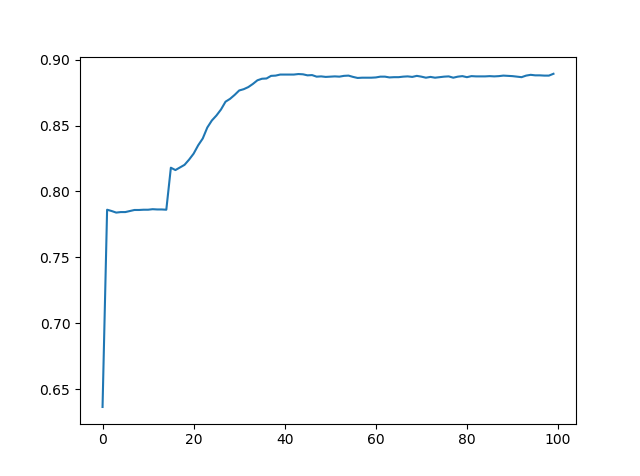
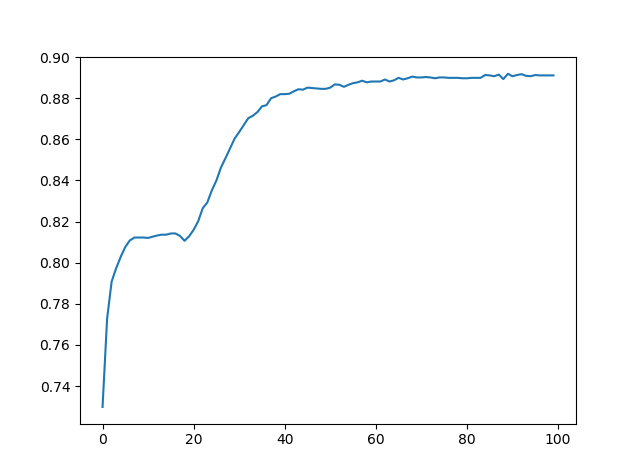
made the predictor that can take batches

diff --git a/training_model.py b/training_model.py
@@ -1,0 +1,51 @@
+from my_CNN import TextCNN
+from word_embeddings import embed_and_augment_data as em_aug
+from compiling_data import X_train, X_test, y_train, y_test
+import pandas as pd
+
+print(y_test.head, X_test.head)
+
+import numpy as np
+import tensorflow as tf
+
+dictionary = {"Company": 0, "Date": 1, "Location": 2, "Vessel": 3}
+num_classes=4
+learning_rate=0.001
+batch_size=5
+decay_steps=1000
+decay_rate=0.95
+sequence_length=40
+embed_size=100
+is_training=True
+dropout_keep_prob=1.0
+filter_sizes=[4,5,6]
+num_filters=128
+
+textRNN=TextCNN(filter_sizes,num_filters,num_classes, learning_rate, batch_size, decay_steps, decay_rate,sequence_length,embed_size,is_training)
+
+n_epochs = 1
+saver = tf.train.Saver()
+
+def train_and_save():
+    with tf.Session() as sess:
+        
+        sess.run(tf.global_variables_initializer())
+
+        for n in range(n_epochs):
+
+            for i in range(len(X_train) % batch_size):
+
+                input_x = np.stack(X_train.iloc[i*batch_size : batch_size*(i+1)].apply(em_aug).values)         # New augmentation every time
+                input_y = y_train.iloc[i*batch_size : batch_size*(i+1)].values
+                input_y = np.vectorize(dictionary.get)(input_y).reshape(-1)
+                loss,possibility,W_projection_value,_=sess.run([textRNN.loss_val,textRNN.possibility,textRNN.W_projection,textRNN.train_op],
+                                                        feed_dict={textRNN.X_in:input_x,textRNN.y_in:input_y,
+                                                                    textRNN.dropout_keep_prob:dropout_keep_prob,textRNN.tst:False,
+                                                                    textRNN.is_training_flag:is_training})
+
+
+            print("Epoch {} completed, loss = {}".format(n, loss))
+        
+        save_patch = saver.save(sess, "./vectorai_word_classifier.ckpt")
+
+train_and_save()

diff --git a/fastText_model/classifier.py b/fastText_model/classifier.py
@@ -1,0 +1,41 @@
+import tensorflow as tf
+import numpy as np
+from fastText import fastTextB
+import sys
+import os
+sys.path.insert(1, 'C:\\Users\\puria\\source\\repos\\puria-radmard\\vectorai\\')
+from word_embeddings import embed_and_augment_data as em_aug
+
+class fastTextPredictor:
+    def __init__(self):
+        
+        self.dictionary = {0 : "Company", 1: "Date", 2: "Location", 3: "Vessel"}
+        self.graph = tf.Graph()
+
+
+    def classify(self, entry):
+        "Takes entry as an iterable type, not DataFrame"
+
+        with self.graph.as_default():
+            with tf.Session() as sess:
+                self.metasaver = tf.train.import_meta_graph("fastText_model/vectorai_fastText_classifier.ckpt.meta")
+                self.metasaver.restore(sess, tf.train.latest_checkpoint(os.path.dirname("fastText_model/vectorai_fastText_classifier.ckpt.meta")))
+                log_op = self.graph.get_operation_by_name("logits")
+                
+                x_in = [em_aug(e) for e in entry]
+
+                pred_logs = sess.run(["logits:0"], feed_dict={"sentence:0": x_in})[0]
+            
+        
+        preds = np.argmax(pred_logs, axis = 1)
+        return preds
+
+from compiling_data import X_test, y_test
+
+dictionary = {"Company": 0, "Date": 1, "Location": 2, "Vessel": 3}
+
+preds = fastTextPredictor().classify(X_test)
+reals = [dictionary[a] for a in y_test["type"]]
+
+acc = np.mean(preds == reals)
+print(acc)

diff --git a/word_embeddings.py b/word_embeddings.py
@@ -53,8 +53,10 @@ def embed_and_augment_data(word, model = model, length = 40):   # Input has to b
 
     # Changes data randomly (using characters from the data) to both standardise string length, and increase sample size
     # This was taken from this article https://towardsdatascience.com/data-augmentation-in-nlp-2801a34dfc28
+    usable_char = ['0', '1', '2', '3', '4', '5', '6', '7', '8', '9', 'a', 'b', 'c', 'd', 'e', 'f', 'g', 'h', 'i', 'j', 'k', 'l', 'm', 'n', 'o', 'p', 'q', 'r', 's', 't', 'u', 'v', 'w',
+'x', 'y', 'z', 'A', 'B', 'C', 'D', 'E', 'F', 'G', 'H', 'I', 'J', 'K', 'L', 'M', 'N', 'O', 'P', 'Q', 'R', 'S', 'T', 'U', 'V', 'W', 'X', 'Y', 'Z', '&', "'", '(', ')', ',', '-', '.', '/', ':', '[', ']']#, ' ']
 
-    outword = np.array([model[a] for a in word])
+    outword = np.array([model[a] for a in word if a in usable_char])    # For not processed words
 
     while len(outword) != length:
         lng = len(outword)

diff --git a/fastText_model/fastText.py b/fastText_model/fastText.py
@@ -58,7 +58,7 @@ class fastTextB:
         self.sentence_embeddings = tf.reduce_mean(self.sentence, axis=1)  # [None,self.embed_size]
 
         # 3.linear classifier layer
-        logits = tf.matmul(self.sentence_embeddings, self.W) + self.b #[None, self.label_size]==tf.matmul([None,self.embed_size],[self.embed_size,self.label_size])
+        logits = tf.add(tf.matmul(self.sentence_embeddings, self.W), self.b, name = "logits") #[None, self.label_size]==tf.matmul([None,self.embed_size],[self.embed_size,self.label_size])
         return logits
 
 

diff --git a/fastText_model/train_fastText.py b/fastText_model/train_fastText.py
@@ -12,7 +12,7 @@ import numpy as np
 import tensorflow as tf
 import matplotlib.pyplot as plt
 
-dictionary = {"Company": [0, 0, 0, 1], "Date": [0, 0, 1, 0], "Location": [0, 1, 0, 0], "Vessel": [1, 0, 0, 0]}
+dictionary = {"Company": [1, 0, 0, 0], "Date": [0, 1, 0, 0], "Location": [0, 0, 1, 0], "Vessel": [0, 0, 0, 1]}
 learning_rate = 0.001
 batch_size = 50
 decay_steps = 128
